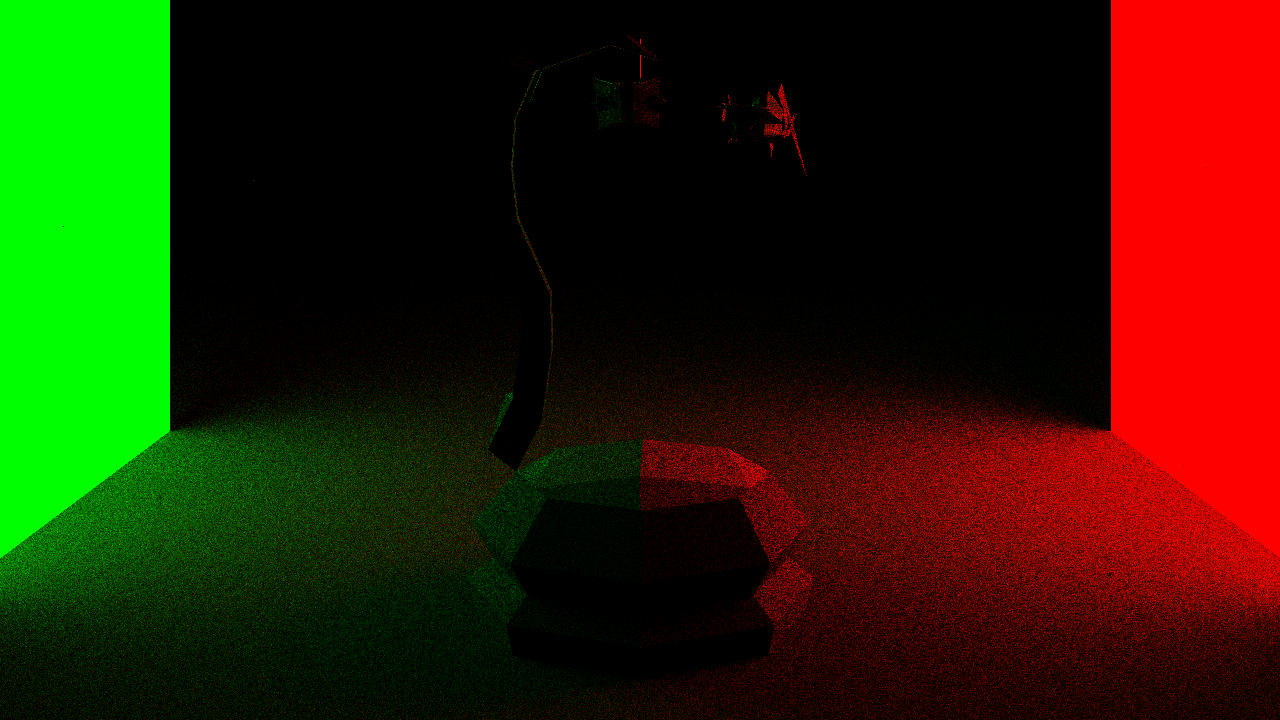
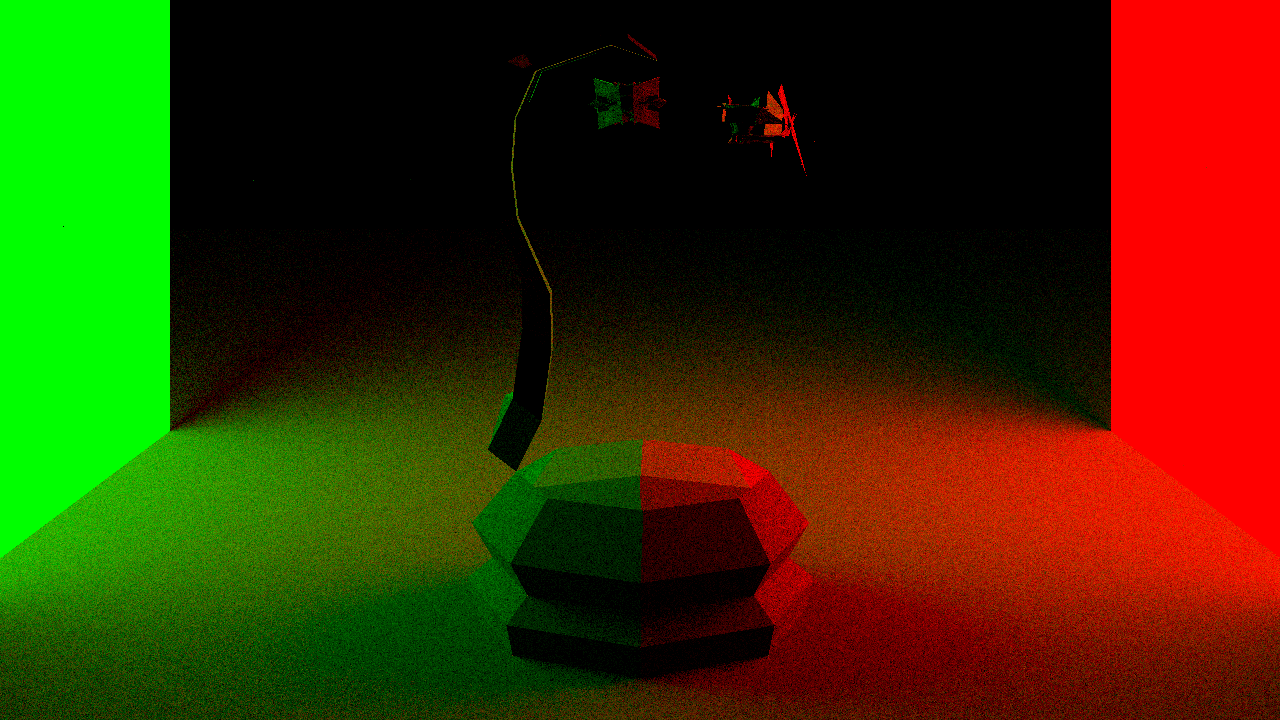
obj format is now better supported (+ minor optimisations

diff --git a/src/FaceCuda.hpp b/src/FaceCuda.hpp
@@ -66,10 +66,10 @@ class FaceCuda {
                 return false;
             } else {
                 Vector<double> normalVector = getNormalVector();
-                if (normalVector == Vector(0,0,0))
+                if (normalVector == Vector<double>())
                     return false;
                 for (uint i=0; i<nbVertices;i++) {
-                    if (std::abs(normalVector*(vertices[i]-vertices[0])) > 1E-5)
+                    if (std::abs(normalVector*(vertices[i]-vertices[0]).normalize()) > 1E-3)
                         return false;
                 }
                 return true;
@@ -78,7 +78,7 @@ class FaceCuda {
 
         __device__ bool isOnPlane(const Vector<double>& vec) const {
             Vector<double> normalVector = getNormalVector();
-            return !(std::abs( (vec-vertices[0])*normalVector ) > 1E-5);
+            return std::abs( (vec-vertices[0]).normalize()*normalVector ) < 1E-3;
         }
 
         __device__ bool isInPolygoneOld(const Vector<double>& vec) {
@@ -114,21 +114,16 @@ class FaceCuda {
             return false;
         }
 
-        // Only works if faceCuda is convex :(
         __device__ bool isInPolygone(const Vector<double>& vec) {
             Vector<double> center = getBarycenter();
             if (isOnPlane(vec) && isOnPlane(center) ) {
                 Line line0 = Line(center,vec-center);
                 uint counter = 0;
-                for (uint i=0;i<nbVertices-1;i++) {
-                    Line line = Line(vertices[i],vertices[i+1]-vertices[i]);
+                for (uint i=0;i<nbVertices;i++) {
+                    Line line = Line(vertices[i],vertices[(i+1)%nbVertices]-vertices[i]);
                     if (line0.IsIntersected(line))
                         counter++;
                 }
-                Line line = Line(vertices[nbVertices-1],vertices[0]-vertices[nbVertices-1]);
-                if (line0.IsIntersected(line))
-                    counter++;
-                //std::cout << counter << std::endl;
                 return (counter%2 == 0);
             }
             return false;
@@ -146,15 +141,14 @@ class FaceCuda {
             return planeEq;
         }*/
 
-        __device__ Vector<double> getIntersection(const Line line) {
+        __device__ Vector<double> getIntersection(const Line& line) {
             Vector<double> startingPoint = line.getPoint();
             Vector<double> direction = line.getDirection();
             Vector<double> normalVector = getNormalVector();
-            double d = -normalVector*(vertices[0]);
-            if (direction*normalVector != 0) {
-                double k = (-d - normalVector*startingPoint)/(direction*normalVector);
+            if (std::abs(direction*normalVector) > 1E-3) {
+                double k = (normalVector*(vertices[0]) - normalVector*startingPoint)/(direction*normalVector);
                 Vector<double> intersectionPoint = startingPoint + direction*k;
-                if (isInPolygone(intersectionPoint) && k>1E-7) {
+                if (isInPolygone(intersectionPoint) && k>1E-3) {
                     for (uint i=0;i<nbVertices;i++) {
                         if (intersectionPoint==vertices[i])
                             return Vector<double>();

diff --git a/src/Face.hpp b/src/Face.hpp
@@ -48,7 +48,7 @@ class Face {
         }
 
         __host__ __device__ Vector<double> getNormalVector() const {
-            return (vertices[1]-vertices[0]).crossProduct(vertices[2]-vertices[2]).normalize();
+            return (vertices[1]-vertices[0]).crossProduct(vertices[2]-vertices[0]).normalize();
         }
 
         __host__ __device__ Vector<double> getBarycenter() const {
@@ -60,16 +60,18 @@ class Face {
             return center;
         }
 
-        __host__ __device__ bool isPlaneValid() const {
+        __host__ bool isPlaneValid() const {
             if (vertices.size() < 3) {
-                //std::cout << "Not enough vertices to define a plan" << std::endl;
+                std::cout << "Not enough vertices to define a plan" << std::endl;
                 return false;
+            } else if (vertices.size() == 3) {
+                return true;
             } else {
                 Vector<double> normalVector = getNormalVector();
-                if (normalVector == Vector(0,0,0))
+                if (normalVector == Vector<double>())
                     return false;
                 for (uint i=0; i<vertices.size();i++) {
-                    if (std::abs(normalVector*(vertices[i]-vertices[0])) > 1E-5)
+                    if (std::abs(normalVector*(vertices[i]-vertices[0]).normalize()) > 1E-3)
                         return false;
                 }
                 return true;
@@ -114,21 +116,16 @@ class Face {
             return false;
         }
 
-        // Only works if face is convex :(
         __host__ __device__ bool isInPolygone(const Vector<double>& vec) {
             Vector<double> center = getBarycenter();
             if (isOnPlane(vec) && isOnPlane(center) ) {
                 Line line0 = Line(center,vec-center);
                 uint counter = 0;
-                for (uint i=0;i<vertices.size()-1;i++) {
-                    Line line = Line(vertices[i],vertices[i+1]-vertices[i]);
+                for (uint i=0;i<vertices.size();i++) {
+                    Line line = Line(vertices[i],vertices[(i+1)%vertices.size()]-vertices[i]);
                     if (line0.IsIntersected(line))
                         counter++;
                 }
-                Line line = Line(vertices[vertices.size()-1],vertices[0]-vertices[vertices.size()-1]);
-                if (line0.IsIntersected(line))
-                    counter++;
-                //std::cout << counter << std::endl;
                 return (counter%2 == 0);
             }
             return false;
@@ -150,7 +147,7 @@ class Face {
             Vector<double> startingPoint = line.getPoint();
             Vector<double> direction = line.getDirection();
             Vector<double> normalVector = getNormalVector();
-            if (direction*normalVector != 0) {
+            if (std::abs(direction*normalVector) > 1E-5) {
                 double k = (normalVector*(vertices[0]) - normalVector*startingPoint)/(direction*normalVector);
                 Vector<double> intersectionPoint = startingPoint + direction*k;
                 if (isInPolygone(intersectionPoint) && k>1E-7) {

diff --git a/src/Environment.hpp b/src/Environment.hpp
@@ -28,8 +28,8 @@ class Environment {
         Faces faces;
         uint samples = 5;
 
-        uint samplesByThread = 8; //8
-        uint threadsByRay = 4; //4
+        uint samplesByThread = 2; //8
+        uint threadsByRay = 2; //4
 
         Pixel backgroundColor = Pixel(0,0,0);
         uint mode = RAYTRACING;
@@ -60,6 +60,7 @@ class Environment {
         }
 
         void addObj(const std::string name, Vector<double> offset, double scale, Material mat) {
+            std::cout << "Loading " << name.c_str() << std::endl;
             Obj obj = Obj(name);
             //obj.print();
 
@@ -76,15 +77,36 @@ class Environment {
 
             Matrix<double> R = P + (I-P)*std::cos(angle) + Q*std::sin(angle);
 
+            /*
+            The OBJ format can provide multiple vertices for one face. We have to convert it in triangles as follow.
+            */
             for (uint i=0;i<indexes.size();i++) {
                 std::vector<Vector<int>> fi = indexes[i];
-                Vector<double> vec1 = R*vertices[fi[0].getX()]*scale + offset;
-                Face face(vec1,mat);
-                for (uint j=1;j<fi.size();j++) {
-                    face.addVectex( R*vertices[fi[j].getX()]*scale + offset );
+
+                for (uint v=2;v<fi.size();v++) {
+                    Face face;
+                    if (v==2) {
+                        Vector<double> vec1 = R*vertices[fi[0].getX()]*scale + offset;
+                        face = Face(vec1,mat);
+                        face.addVectex( R*vertices[fi[1].getX()]*scale + offset );
+                        face.addVectex( R*vertices[fi[2].getX()]*scale + offset );
+                    } else {
+                        Vector<double> vec1 = R*vertices[fi[v-3].getX()]*scale + offset;
+                        face = Face(vec1,mat);
+                        face.addVectex( R*vertices[fi[v-1].getX()]*scale + offset );
+                        face.addVectex( R*vertices[fi[v].getX()]*scale + offset );
+                        
+                    }
+                    if (face.isPlaneValid()) {
+                        addFace(face);
+                        obj.nbFaces += 1;
+                    } else {
+                        //std::cout << "Face not valid" << std::endl;
+                        obj.failedFaces += 1;
+                    }
                 }
-                addFace(face);
-            } 
+            }
+            std::cout << name.c_str() << " loaded with " << obj.nbFaces << " faces and " << obj.failedFaces << " wrong ones." << std::endl;
         }        
 
         void render() {
@@ -193,7 +215,7 @@ class Environment {
                     for(uint i=0;i<threadsByRay;i++)
                         partialColor+=(colors[W*H*i + h*W + w].toVector());
                     partialColor/=threadsByRay;
-                    cam->setPixel(h*W+w, Pixel(partialColor));
+                    cam->setPixel(h*W+w, Pixel(partialColor.pow(1/cam->getGamma())));
                 }
             }
             delete[] colors;

diff --git a/src/Line.hpp b/src/Line.hpp
@@ -9,6 +9,10 @@ class Line {
     protected:
         Vector<double> point;
         Vector<double> direction;
+
+        __host__ __device__ bool isInInterval(const double value, const double x, const double y, const double eps=0) {
+            return  x+eps < value && value < y-eps;
+        }
     public:
         __host__ __device__ Line(){};
         __host__ __device__ Line(Vector<double> point0, Vector<double> direction0) : point(point0), direction(direction0) {};
@@ -36,12 +40,31 @@ class Line {
             Vector<double> u = Vector<double>(direction);
             Vector<double> v = Vector<double>(line.direction);
             Matrix<double> mat = Matrix<double>(v.normSquared(),-v*u,0.,-v*u,u.normSquared(),0.,0.,0.,1.);
-            if (!mat.isInversible() || u.crossProduct(v) == Vector<double>())
-                return false; 
-            mat=mat.inverse();
-            mat=mat*(Matrix<double>(v,-u,Vector<double>()).transpose());
-            Vector<double> K = mat*(M-N);
-            double k1=K.getY(); double k2=K.getX();
-            return (M+u*k1)==(N+v*k2) && 1E-7<k1 && k1<1-1E-7 && 1E-7<k2 && k2<1-1E-7;
+            if (u.crossProduct(v) == Vector<double>() || !mat.isInversible())
+                return false;
+
+            //Unecessary computation have been removed (Matrix inversions and multiplications are now "developed" by hand)
+            // Speedup : 1.37
+
+            //mat=mat.inverse();
+            double det = mat.det();
+            double fraqU = u.normSquared()/det;
+            double fraqV = v.normSquared()/det;
+            double vu = v*u/det;
+            //mat=Matrix<double>(u.normSquared()/det,v*u/det,0,v*u/det,v.normSquared()/det,0,0,0,1);
+            //mat=mat*(Matrix<double>(v,-u,Vector<double>()).transpose());
+            /*mat = Matrix<double>(v.getX()*fraqU-vu*u.getX(),
+                                v.getY()*fraqU-vu*u.getY(),
+                                v.getZ()*fraqU-vu*u.getZ(),
+                                v.getX()*vu-fraqV*u.getX(),
+                                v.getY()*vu-fraqV*u.getY(),
+                                v.getZ()*vu-fraqV*u.getZ(),
+                                0,0,0); */
+            //Vector<double> K = mat*(M-N);
+            //double k1=K.getY(); double k2=K.getX();
+            Vector<double> MN = M-N;
+            double k1 = (v.getX()*vu-fraqV*u.getX())*MN.getX() + (v.getY()*vu-fraqV*u.getY())*MN.getY() + (v.getZ()*vu-fraqV*u.getZ())*MN.getZ();
+            double k2 = (v.getX()*fraqU-vu*u.getX())*MN.getX() + (v.getY()*fraqU-vu*u.getY())*MN.getY() + (v.getZ()*fraqU-vu*u.getZ())*MN.getZ();
+            return (M+u*k1)==(N+v*k2) && isInInterval(k1,0,1,1E-5) && isInInterval(k2,0,1,1E-5);
         }
 };

diff --git a/src/Camera.hpp b/src/Camera.hpp
@@ -15,15 +15,16 @@ class Camera {
     private:
         Vector<double> position;
 
-        Vector<double> vectRight = Vector<double>(1,0,0);
-        Vector<double> vectFront = Vector<double>(0,1,0);
-        Vector<double> vectUp = Vector<double>(0,0,1);
+        Vector<double> vectRight;
+        Vector<double> vectFront;
+        Vector<double> vectUp;
 
         uint width;
         uint height;
         double capteurWidth;
         double capteurHeight;
         double fov = 0.01;
+        double gamma = 2.0;
         std::vector<Pixel> pixels;
 
     public:
@@ -44,6 +45,14 @@ class Camera {
 
         inline uint getHeight() const {
             return height;
+        }
+
+        double getGamma() const {
+            return gamma;
+        }
+
+        void setGamma(double g) {
+            gamma = g;
         }
 
         Vector<double> getPixelCoordOnCapt(double w, double h) const {

diff --git a/src/Ray.hpp b/src/Ray.hpp
@@ -88,7 +88,7 @@ class Ray : public Line {
             for (uint i=0;i<nbFaces;i++) {
                 Vector<double> intersectionPoint = (faces[i]).getIntersection((Line)(*this));
                 double distance = std::sqrt((intersectionPoint-point).normSquared());
-                if (intersectionPoint != Vector(0.,0.,0.) && distance<hit.getDistance()) {
+                if (intersectionPoint != Vector<double>() && distance<hit.getDistance()) {
                     hit.setDistance(distance);
                     hit.setDistanceTraveled(distance+hit.getDistanceTraveled());
                     hit.setHasHit(true);

diff --git a/src/Image.hpp b/src/Image.hpp
@@ -71,7 +71,7 @@ class Image {
                     for (int x=-offset;x<offset+1;x++) {
                         for (int y=-offset;y<offset+1;y++) {
                             //std::cout << w << " " << h << " " << x << " " << y << std::endl;
-                            if (w+x >= 0 && w+x < width && h+y >= 0 && h+y < height)
+                            if (w+x < width && h+y < height)
                                 center+=pixels[w+x][h+y].toVector()*kernel[x+offset][y+offset]/16;
                         }
                     }

diff --git a/src/Obj.hpp b/src/Obj.hpp
@@ -31,7 +31,6 @@ class Obj {
 
     public:
         Obj(const std::string name) {
-            std::cout << "Loading " << name.c_str() << std::endl;
             std::string path = std::string("./models/");
             std::ifstream monFlux((path+name).c_str());
             std::string ligne;
@@ -71,6 +70,9 @@ class Obj {
         };
 
         ~Obj() {};
+
+        uint nbFaces = 0;
+        uint failedFaces = 0;
 
         void addVertices(Vector<double> vertex) {
             v.push_back(vertex);

diff --git a/src/Vector.hpp b/src/Vector.hpp
@@ -154,6 +154,13 @@ class Vector {
             return x*vec.x + y*vec.y + z*vec.z;
         }
 
+        __host__ __device__ Vector<T>& pow(const T nb) {
+            x = std::pow(x,nb);
+            y = std::pow(y,nb);
+            z = std::pow(z,nb);
+            return *this;
+        }
+
         template <typename U>
         __host__ __device__ bool operator == (const Vector<U>& vec) const {
             if (std::is_same<T,U>::value) {

diff --git a/src/main.cpp b/src/main.cpp
@@ -213,7 +213,12 @@ int main() {
 	
 	//firstRender();
 
+	auto start = std::chrono::steady_clock::now();
 	objRender();
+	auto end = std::chrono::steady_clock::now();
+
+	std::chrono::duration<double> elapsed_seconds = end-start;
+	std::cout << "Render time: " << elapsed_seconds.count() << "s\n";
 
 	return EXIT_SUCCESS; 
 }

diff --git a/README.md b/README.md
@@ -30,4 +30,8 @@ $ build/main
 
 CUDA render almost 40 times faster than classic CPU render
 
+![Raytraced chess knight](/knight2.png)
+
+Took 2924.65s to render (64 samples per ray and 4 threads per ray)
+
 Maxence Leguéry
